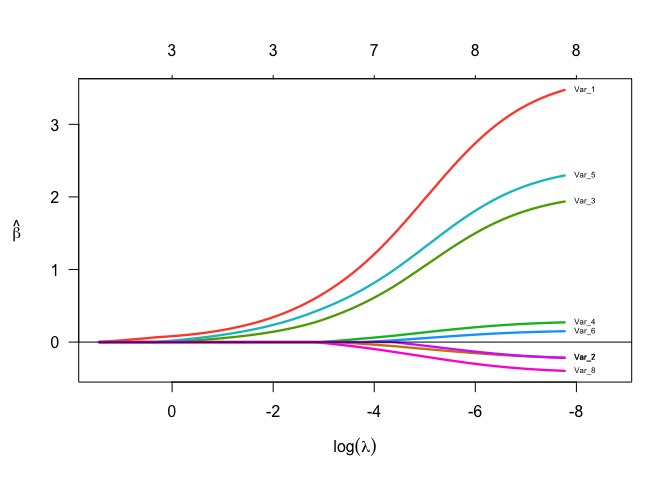
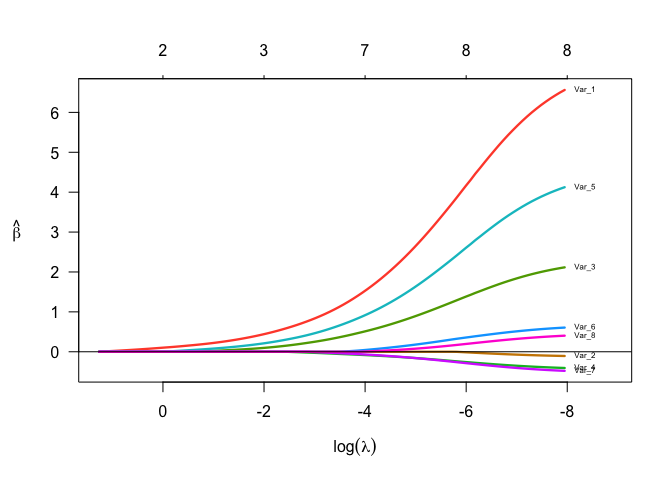
cleanup

diff --git a/README.md b/README.md
@@ -34,7 +34,7 @@ colnames(xm) <- paste0("Var_",1:p)
 fit02 <- tvsmiss(x=xm,y=y,method = "BIC")
 fit02$selection_beta
 #>     Var_1     Var_2     Var_3     Var_4     Var_5     Var_6     Var_7 
-#> 0.5691356 0.0000000 0.2561393 0.0000000 0.3981944 0.0000000 0.0000000 
+#> 0.5614923 0.0000000 0.1417931 0.0000000 0.2872000 0.0000000 0.0000000 
 #>     Var_8 
 #> 0.0000000
 plot(fit02,x.log=TRUE,label = TRUE)
